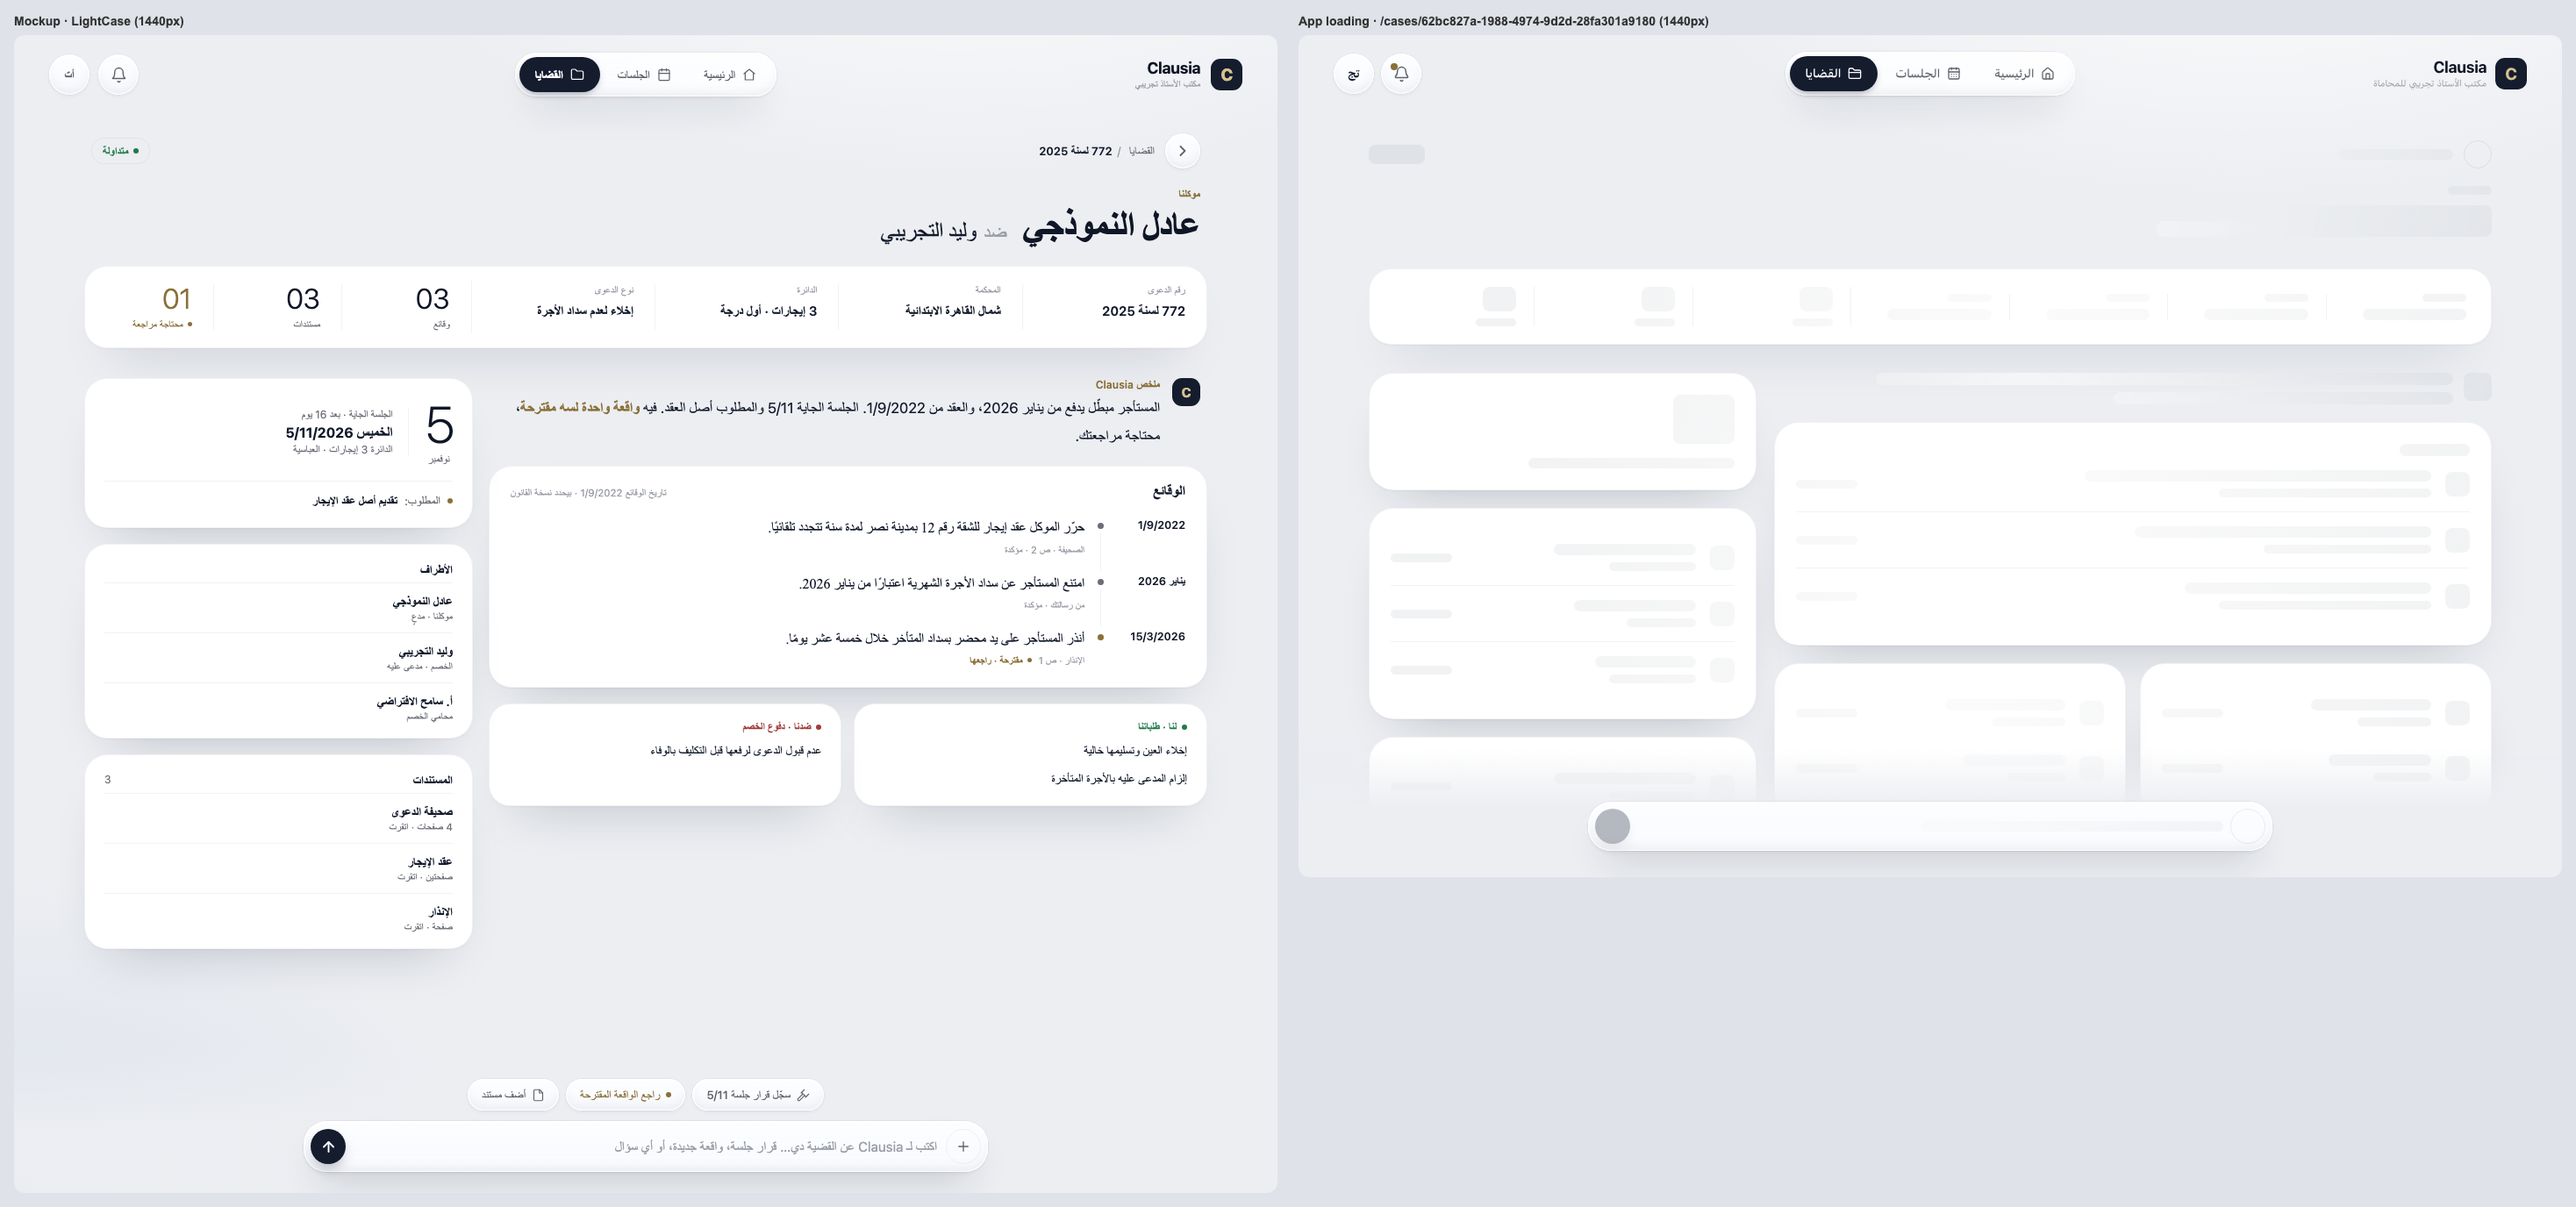
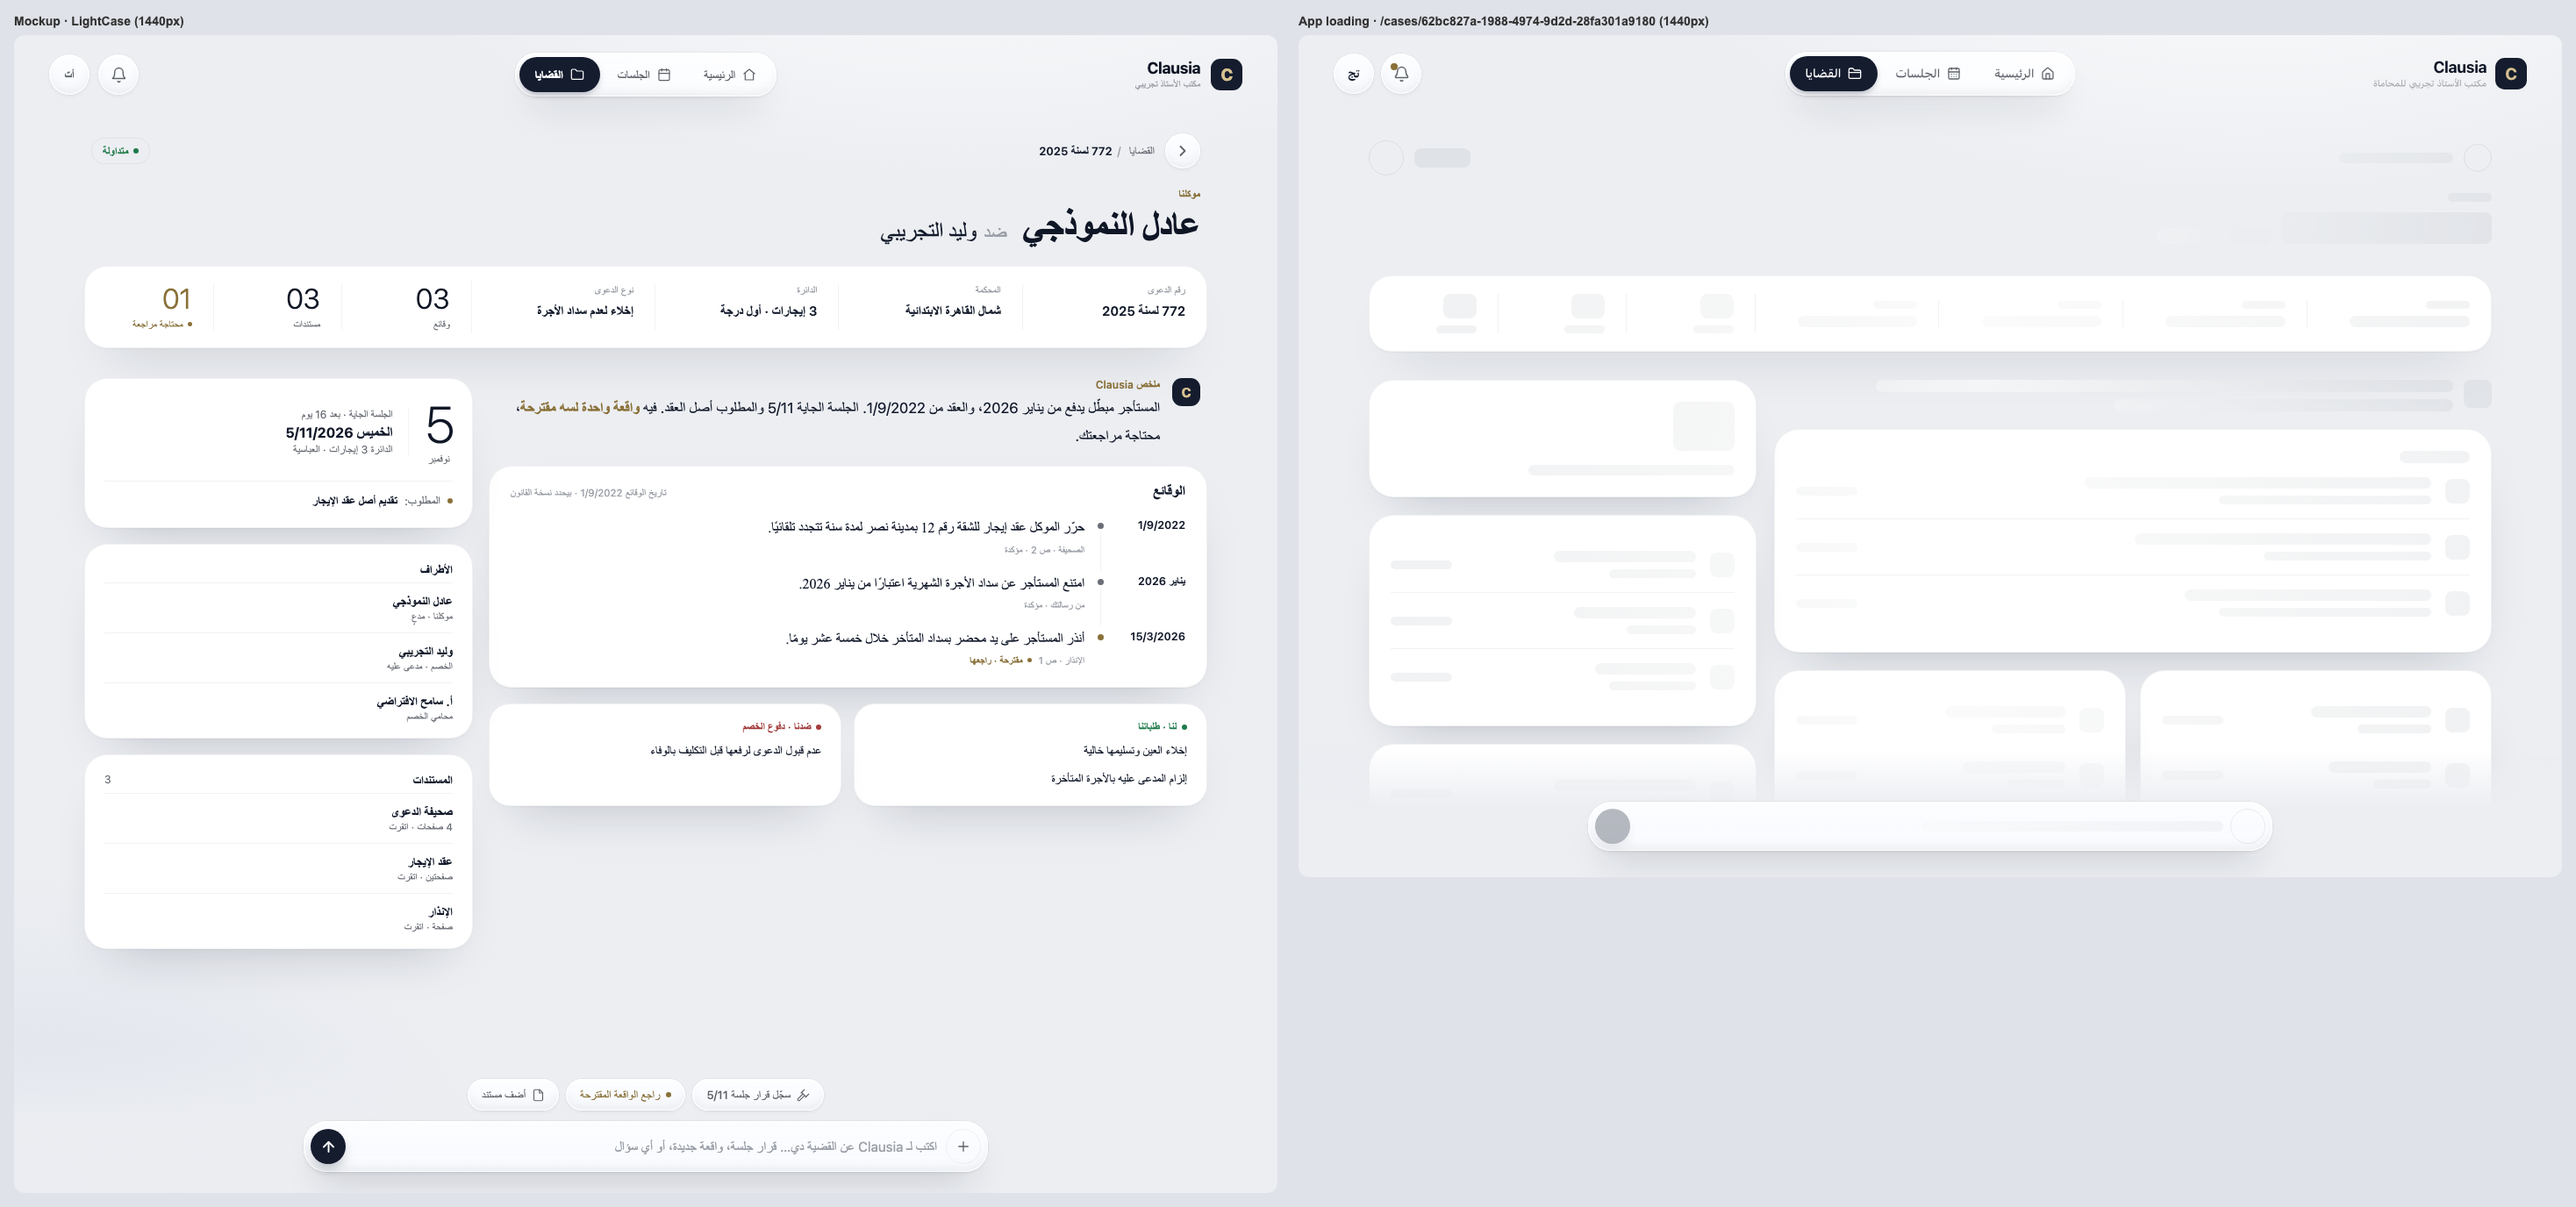
Owner answers: «…» at the end of the Case breadcrumb row next to the status chip; Cases clear-filter pill first; Roll Friday rule and arrows noted in DESIGN.md; Case skeleton uses the header's 1fr/0.7fr columns; re-shot Case and Roll

diff --git a/src/components/caselist/FilterChips.tsx b/src/components/caselist/FilterChips.tsx
@@ -3,7 +3,7 @@
  * counts (every status that has cases, not only the drawn three; on phones the row scrolls sideways).
  * Plain links (query params), so they work without JS. Not glass: the row sits on the page, not over content.
  * The selected capsule is the ink fill. `?decision=1` (the «محتاجة قرار» stat), `?review=1`, `?stage=` and `?q=`
- * have no capsule; when one is active it shows as a clearable pill.
+ * have no capsule; when one is active it shows as a clearable pill, first in the row.
  */
 import { X } from "lucide-react";
 import Link from "next/link";
@@ -47,6 +47,11 @@ export function FilterChips({ sp, counts }: { sp: ListParams; counts: Counts }) 
     // py-1.5 keeps the capsules' 44px tap areas inside the scroll box (it would clip them). Phones: 16px + 6px puts
     // the visible capsule where it was drawn; desktop: 28px + 6px = the mockup's 34px, and -mb gives the 6px back.
     <nav aria-label="تصفية القضايا" className="no-scrollbar mt-4 flex items-center gap-0.5 overflow-x-auto py-1.5 sm:-mb-1.5 sm:mt-[28px] sm:gap-1 sm:px-1">
+      {/* owner decision: the active filter's clear pill comes first (at the right), so it is never scrolled out of view */}
+      {sp.decision ? <ClearPill label="محتاجة قرار" to={casesHref(sp, { decision: undefined })} /> : null}
+      {sp.review ? <ClearPill label="محتاجة مراجعة" to={casesHref(sp, { review: undefined })} /> : null}
+      {stage ? <ClearPill label={stage} to={casesHref(sp, { stage: undefined })} /> : null}
+      {sp.q ? <ClearPill label={`«${sp.q}»`} to={casesHref(sp, { q: undefined })} /> : null}
       <Capsule on={!sp.status && !sp.review && !sp.decision} to={casesHref(sp, { status: undefined, ...NO_FLAGS })}>الكل<Count n={counts.total} /></Capsule>
       {statuses.map((k) => (
         <Capsule key={k} on={sp.status === k} to={casesHref(sp, { status: k, ...NO_FLAGS })}>
@@ -54,10 +59,6 @@ export function FilterChips({ sp, counts }: { sp: ListParams; counts: Counts }) 
           <Count n={counts.status[k]} />
         </Capsule>
       ))}
-      {sp.decision ? <ClearPill label="محتاجة قرار" to={casesHref(sp, { decision: undefined })} /> : null}
-      {sp.review ? <ClearPill label="محتاجة مراجعة" to={casesHref(sp, { review: undefined })} /> : null}
-      {stage ? <ClearPill label={stage} to={casesHref(sp, { stage: undefined })} /> : null}
-      {sp.q ? <ClearPill label={`«${sp.q}»`} to={casesHref(sp, { q: undefined })} /> : null}
     </nav>
   );
 }
@@ -65,7 +66,7 @@ export function FilterChips({ sp, counts }: { sp: ListParams; counts: Counts }) 
 /** an active filter without a capsule of its own (?decision=, ?review=, ?stage=, ?q=): shown with an × that removes it */
 function ClearPill({ label, to }: { label: string; to: string }) {
   return (
-    <Link href={to} aria-label={`شيل التصفية ${label}`} className="tap group inline-flex shrink-0 items-center ps-1">
+    <Link href={to} aria-label={`شيل التصفية ${label}`} className="tap group inline-flex shrink-0 items-center pe-1">
       <span className="inline-flex h-8 max-w-[220px] items-center gap-1.5 rounded-full border border-border px-3 text-[12.5px] font-semibold text-text sm:h-[34px] sm:text-[13px]">
         <span className="truncate">{label}</span>
         <X size={14} strokeWidth={2.2} aria-hidden className="shrink-0 text-text-4 group-hover:text-text" />

diff --git a/src/components/cases/CaseHeader.tsx b/src/components/cases/CaseHeader.tsx
@@ -1,5 +1,6 @@
 // The case page header (docs/design/*Case.dc.html), v2: who first — «موكلنا», the client's name big, «ضد <opponent>».
-// Desktop (item 19): row 1 = back · «…» · breadcrumb «القضايا / <number>» … status chip at the far end; row 2 = eyebrow
+// Desktop (item 19): row 1 = back · breadcrumb «القضايا / <number>» … status chip, then «…» at the far end (owner:
+// it holds the moved links — case data, hearings, case chat, JSON); row 2 = eyebrow
 // + the name with «ضد <opponent>» on the same line; row 3 = one solid card of 7 cells split by hairlines — number,
 // court, circuit, type | facts, docs, needs review (big light numbers, gold only when > 0).
 // Mobile: back + «…» floating, eyebrow + status, the name, «ضد» below, then a 2×2 solid spec card, no stats (the tabs
@@ -62,15 +63,15 @@ export function CaseHeader({ cf, caseId, chatHref, stats }: { cf: CaseFile; case
         <CaseMenu caseId={caseId} chatHref={chatHref} align="end" className="size-[42px]" />
       </div>
 
-      {/* desktop row 1: 40px back · «…» (owner decision: the one addition) · breadcrumb … status chip */}
+      {/* desktop row 1: 40px back · breadcrumb … status chip · «…» (owner decision: «…» next to the chip) */}
       <div className="hidden items-center gap-3 px-2 pt-6 sm:flex">
         <Link href="/cases" aria-label="رجوع" className={`${ROUND} sm:size-10`}><ChevronRight size={20} strokeWidth={2.2} aria-hidden /></Link>
-        <CaseMenu caseId={caseId} chatHref={chatHref} align="start" className="size-10" />
         <nav aria-label="المسار" className="min-w-0 flex-1 truncate text-[13px] text-text-3">
           <Link href="/cases" className="tap hover:text-text hover:underline">القضايا</Link>
           {number ? <><span aria-hidden className="mx-1.5 text-text-4">/</span><span className="font-semibold text-text">{number}</span></> : null}
         </nav>
         <StatusPill status={cf.case.status} />
+        <CaseMenu caseId={caseId} chatHref={chatHref} align="end" className="size-10" />
       </div>
 
       {/* who: mobile = eyebrow + status, name, «ضد» below; desktop = eyebrow, then name + «ضد» on one line */}

diff --git a/src/components/shell/PageSkeleton.tsx b/src/components/shell/PageSkeleton.tsx
@@ -95,13 +95,14 @@ export function PageSkeleton({ kind }: { kind: Kind }) {
           {/* desktop (item 19): breadcrumb row with the status chip, client «ضد» opponent, one card of 4 spec | 3 stats */}
           <div className="hidden items-center justify-between pt-8 sm:flex">
             <div className="flex items-center gap-3"><span className="size-8 rounded-full border border-border" /><Bar w="130px" h={12} /></div>
-            <Bar w="64px" h={22} className="rounded-full" />
+            <div className="flex items-center gap-3"><Bar w="64px" h={22} className="rounded-full" /><span className="size-10 rounded-full border border-border" /></div>
           </div>
           <div className="space-y-3 pt-4 sm:pt-5"><Bar w="50px" h={10} /><div className="flex items-end gap-3"><Bar w="min(240px, 60vw)" h={36} className="rounded-xl" /><Bar w="130px" h={18} className="hidden sm:block" /></div><Bar w="180px" h={14} className="sm:hidden" /></div>
           <div className="mt-6 grid grid-cols-2 gap-4 sm:hidden">{Array.from({ length: 4 }, (_, i) => <div key={i} className="space-y-2"><Bar w="60px" h={10} /><Bar w="120px" h={14} /></div>)}</div>
-          <div className="mt-6 hidden items-center rounded-[26px] border border-border-2 bg-card px-2 py-5 shadow-card sm:flex">
+          {/* same columns as the header card: 4 spec cells (1fr) | 3 stat cells (0.7fr) */}
+          <div className="mt-6 hidden grid-cols-[repeat(4,minmax(0,1fr))_repeat(3,minmax(0,0.7fr))] items-center rounded-[26px] border border-border-2 bg-card py-5 shadow-card sm:grid">
             {Array.from({ length: 7 }, (_, i) => (
-              <div key={i} className={`flex-1 space-y-2 px-5 ${i ? "border-s border-[var(--hairline-v2)]" : ""}`}>
+              <div key={i} className={`min-w-0 space-y-2 px-6 ${i ? "border-s border-[var(--hairline-v2)]" : ""}`}>
                 {i < 4 ? <><Bar w="50px" h={9} /><Bar w="85%" h={13} /></> : <><Bar w="38px" h={28} className="rounded-lg" /><Bar w="46px" h={9} /></>}
               </div>
             ))}

diff --git a/src/app/(app)/hearings/page.tsx b/src/app/(app)/hearings/page.tsx
@@ -27,7 +27,7 @@ function dayName(iso: string, today: string) {
 }
 
 /**
- * The week: Sat–Thu (Friday only when chosen or it has hearings); weekday, big day number, one dot per hearing.
+ * The week: Sat–Thu; Friday is hidden unless it has a hearing that week (owner decision), or it is the chosen day; weekday, big day number, one dot per hearing.
  * Changing the week (owner decision 15): on desktop two small quiet glass buttons at the two ends of the strip; on
  * touch screens a sideways swipe on the strip (SwipeWeek; dragging toward the left → previous week, toward the right →
  * next week, as RTL content moves with the finger).

diff --git a/docs/design/DESIGN.md b/docs/design/DESIGN.md
@@ -48,7 +48,9 @@ The 20 `*.dc.html` files here are the approved screens: Home, Chat, Case, Roll a
 - Every screen has the same soft fade behind the floating composer and chips (Home too).
 - Home mobile chips scroll sideways.
 - Case: judgments live in the hearings view; the links (case details, hearings, case chat, JSON) live in the «…» menu; long court / case-type names are one line with «…» on mobile.
-- Cases: the third stat is «محتاجة قرار» with its own filter; each row keeps its review marker; extra status filters scroll on mobile.
-- Roll: on mobile, swipe the day strip to change the week; on desktop, two small quiet prev/next week buttons at the two ends of the strip (no separate row).
+- Case desktop header: back · breadcrumb … status chip · «…» (the menu sits at the end of the row, next to the chip). The header card keeps the mockup's widths: 4 wider data cells and 3 narrower stat cells, aligned on one line and split by hairlines.
+- Cases: the third stat is «محتاجة قرار» with its own filter; each row keeps its review marker; extra status filters scroll on mobile; an active filter's clear pill comes first in the row (at the right).
+- Roll: on mobile, swipe the day strip to change the week (drag right → next week, as RTL); on desktop, two small quiet prev/next week buttons at the two ends of the strip (no separate row); the next-week arrow points left.
+- Roll: the strip shows Saturday–Thursday. Friday is hidden unless that week's Friday has a hearing (or is the chosen day).
 - Chat: the card footer's second line (save as suggestions · reject all · open case) shows only after «عدّل»; the /chat list uses the thread's style.
 - Loading: one shared skeleton in each page's real layout (title, stats, card or table shapes), card + hairline tokens, one calm shimmer, no spinners; the top bar and composer stay visible.
